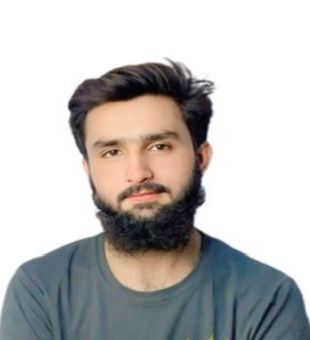
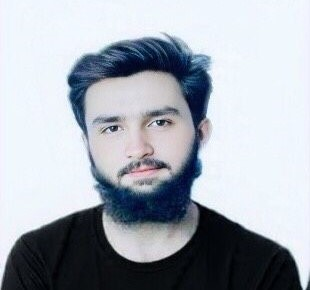
updated

diff --git a/style.css b/style.css
@@ -88,7 +88,7 @@ header{                 /*this is for header*/
 }
 .introduction{                  /*this is for the introduction*/
     margin-top: 80px;
-    height: 400px;
+    height: 450px;
     width: 100%;
     display: flex;
     flex-direction: row;
@@ -96,7 +96,7 @@ header{                 /*this is for header*/
     align-items: center;
 }
 .introduction-details{              /*this is related to introduction*/
-    height: 340px;
+    height: 290px;
     width: 900px;
     border: 1px solid rgba(255, 255, 255, 0.2);
     border-radius: 30px;
@@ -119,7 +119,7 @@ header{                 /*this is for header*/
     color: rgb(214, 212, 212);
 }
 .introduction-image{                                 /*this is related to introduction*/
-    height: 340px;
+    height: 290px;
     width: 310px;
     border: 1px solid rgba(255, 255, 255, 0.2);
     border-radius: 30px;
@@ -290,9 +290,11 @@ i:hover{                                            /*this is related to my emai
 .about-image{                                               /*related to about*/
     height: 500px;
     width: 540px;
-    background-image: url(./images/zohaib.jpg);
-    border-radius: 25px;
+    background-image: url(./images/image6.JPG);
+    border-radius: 27px;
     background-repeat: no-repeat;
+    
+    
 }
 .about-details{                                                         /*related to about*/
     height: 450px;
@@ -307,6 +309,7 @@ i:hover{                                            /*this is related to my emai
     font-family: "Merriweather", Alan Sans;
     font-style: italic;
     color:#05a3be;
+    font-size: xx-large;
 }
 .about-heading-two{                                             /*related to about*/
     color: white;
@@ -315,7 +318,7 @@ i:hover{                                            /*this is related to my emai
     text-align: justify;
     height: 300px;
     width: 470px;
-    font-weight: 600;
+    font-weight: 400;
     font-size: 17px;
 }
 
